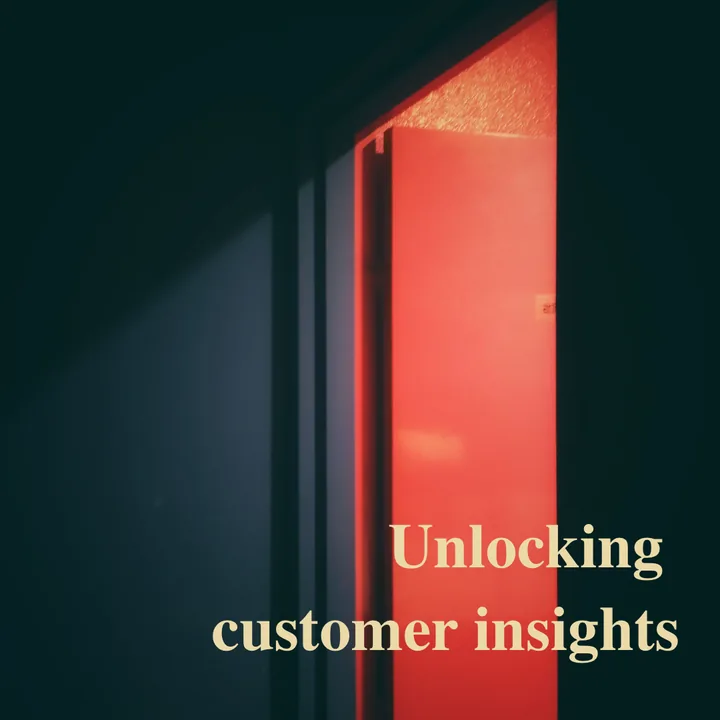
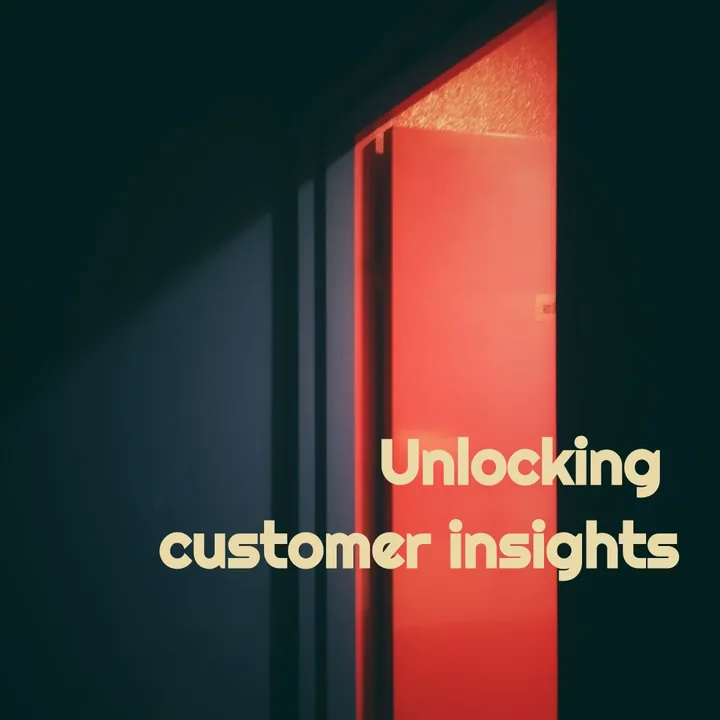
Landing: replace hero card 01 with a new photo
Same title ("Unlocking customer insights") and tags, new image, 720px
WebP q82 like the others. Its src carries ?v=2 so cached copies of the
old image aren't reused. Documents how to swap a card next to the card
list.

Claude-Session: https://claude.ai/code/session_01PT91VmSV7wo5oUz47vvuiL

Changed region(s): [[0.2139, 0.7028, 0.9472, 0.9472], [0.5194, 0.5806, 0.9167, 0.7028]]

diff --git a/src/components/landing/SwipeableCards.jsx b/src/components/landing/SwipeableCards.jsx
@@ -71,8 +71,14 @@ const HIDDEN = { ...SLOTS[VISIBLE_SLOTS - 1], opacity: 0 };
 // Alt text is the card's own words so the stories stay readable to screen
 // readers. `tags` (max 2) are the front card's skill tags, shown with the
 // product's own Tag pill.
+//
+// To swap a card: export it from StoryWall (1080×1080), resize to 720×720
+// WebP at quality 82, overwrite public/landing-cards/NN.webp, and update that
+// entry's alt (the card's own words) and tags below; bump the ?v= on its
+// src so browsers don't keep showing the cached old image. Card 01 was replaced
+// this way in Oct 2026 (new photo, same "Unlocking customer insights" title).
 const CARDS = [
-  { src: '/landing-cards/01.webp', tags: ['Customer Research', 'Empathy'], alt: 'Unlocking customer insights' },
+  { src: '/landing-cards/01.webp?v=2', tags: ['Customer Research', 'Empathy'], alt: 'Unlocking customer insights' },
   { src: '/landing-cards/02.webp', tags: ['Product Optimization', 'Data Analysis'], alt:'We had years of viewing data and a ranking algorithm built on top of it. Then we added a simple thumbs up. It took one tap and gave us something the logs couldn\'t: a direct opinion. Whenever the data and the opinion disagreed, we let the opinion win.' },
   { src: '/landing-cards/03.webp', tags: ['Problem Solving'], alt: 'The 11s Bottleneck' },
   { src: '/landing-cards/04.webp', tags: ['Data Analysis', 'Product Optimization'], alt:'Everyone had a theory, but the data showed something simple: our checkout took eleven seconds to load. A single third-party script was hogging six of them. We cut it, and load times dropped to two seconds overnight.' },
